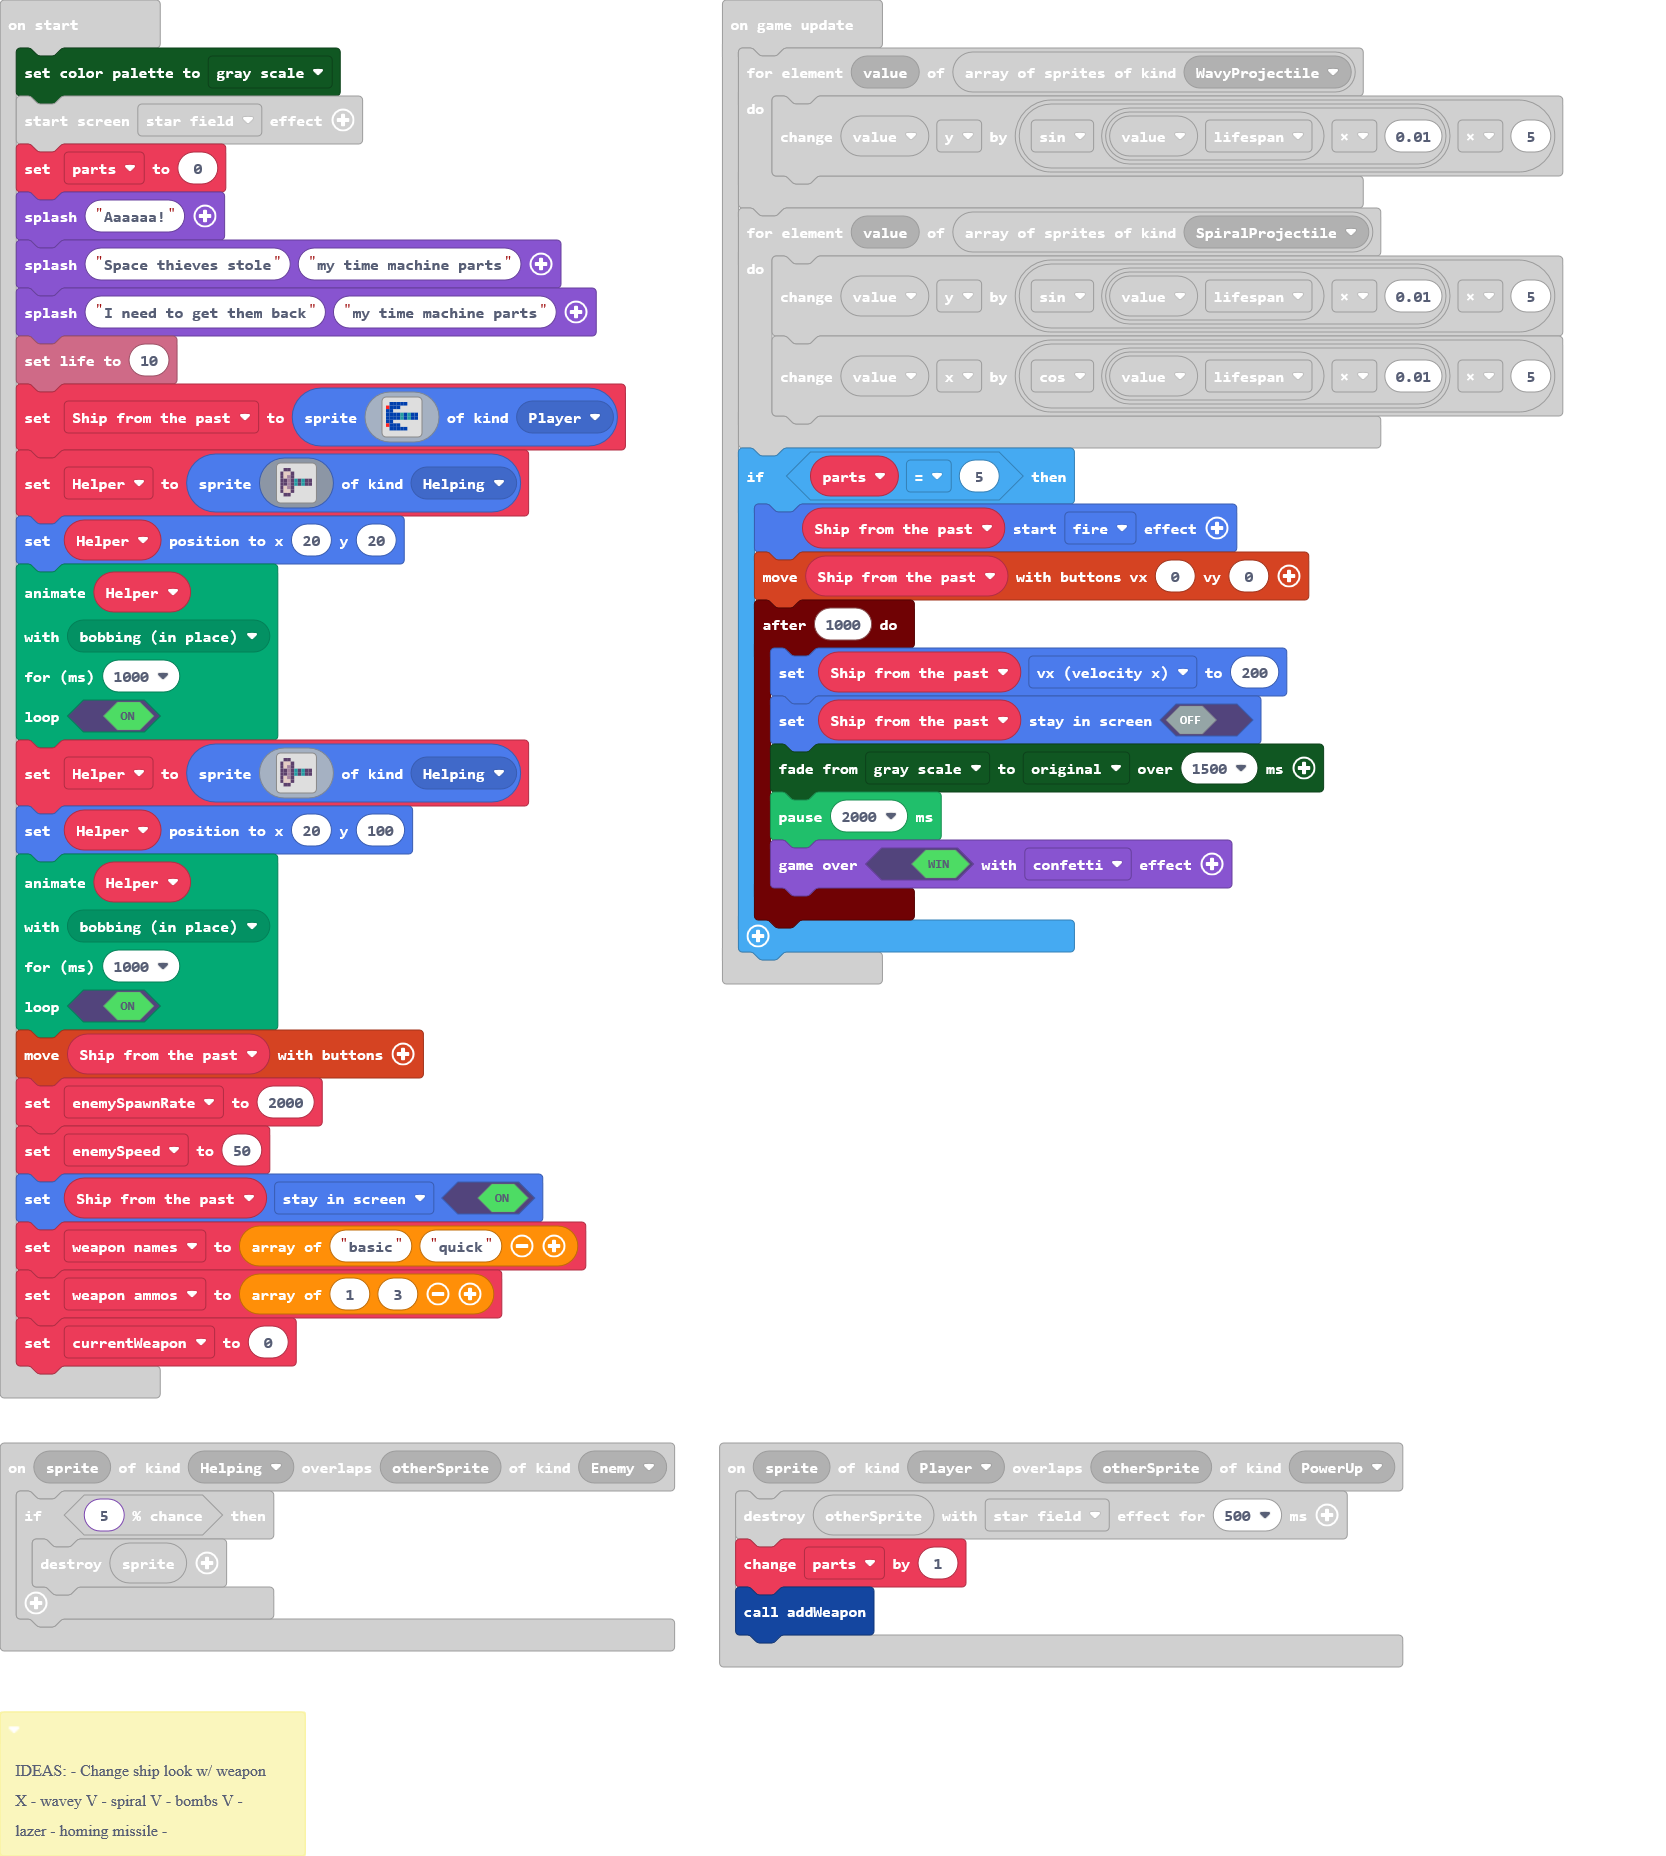
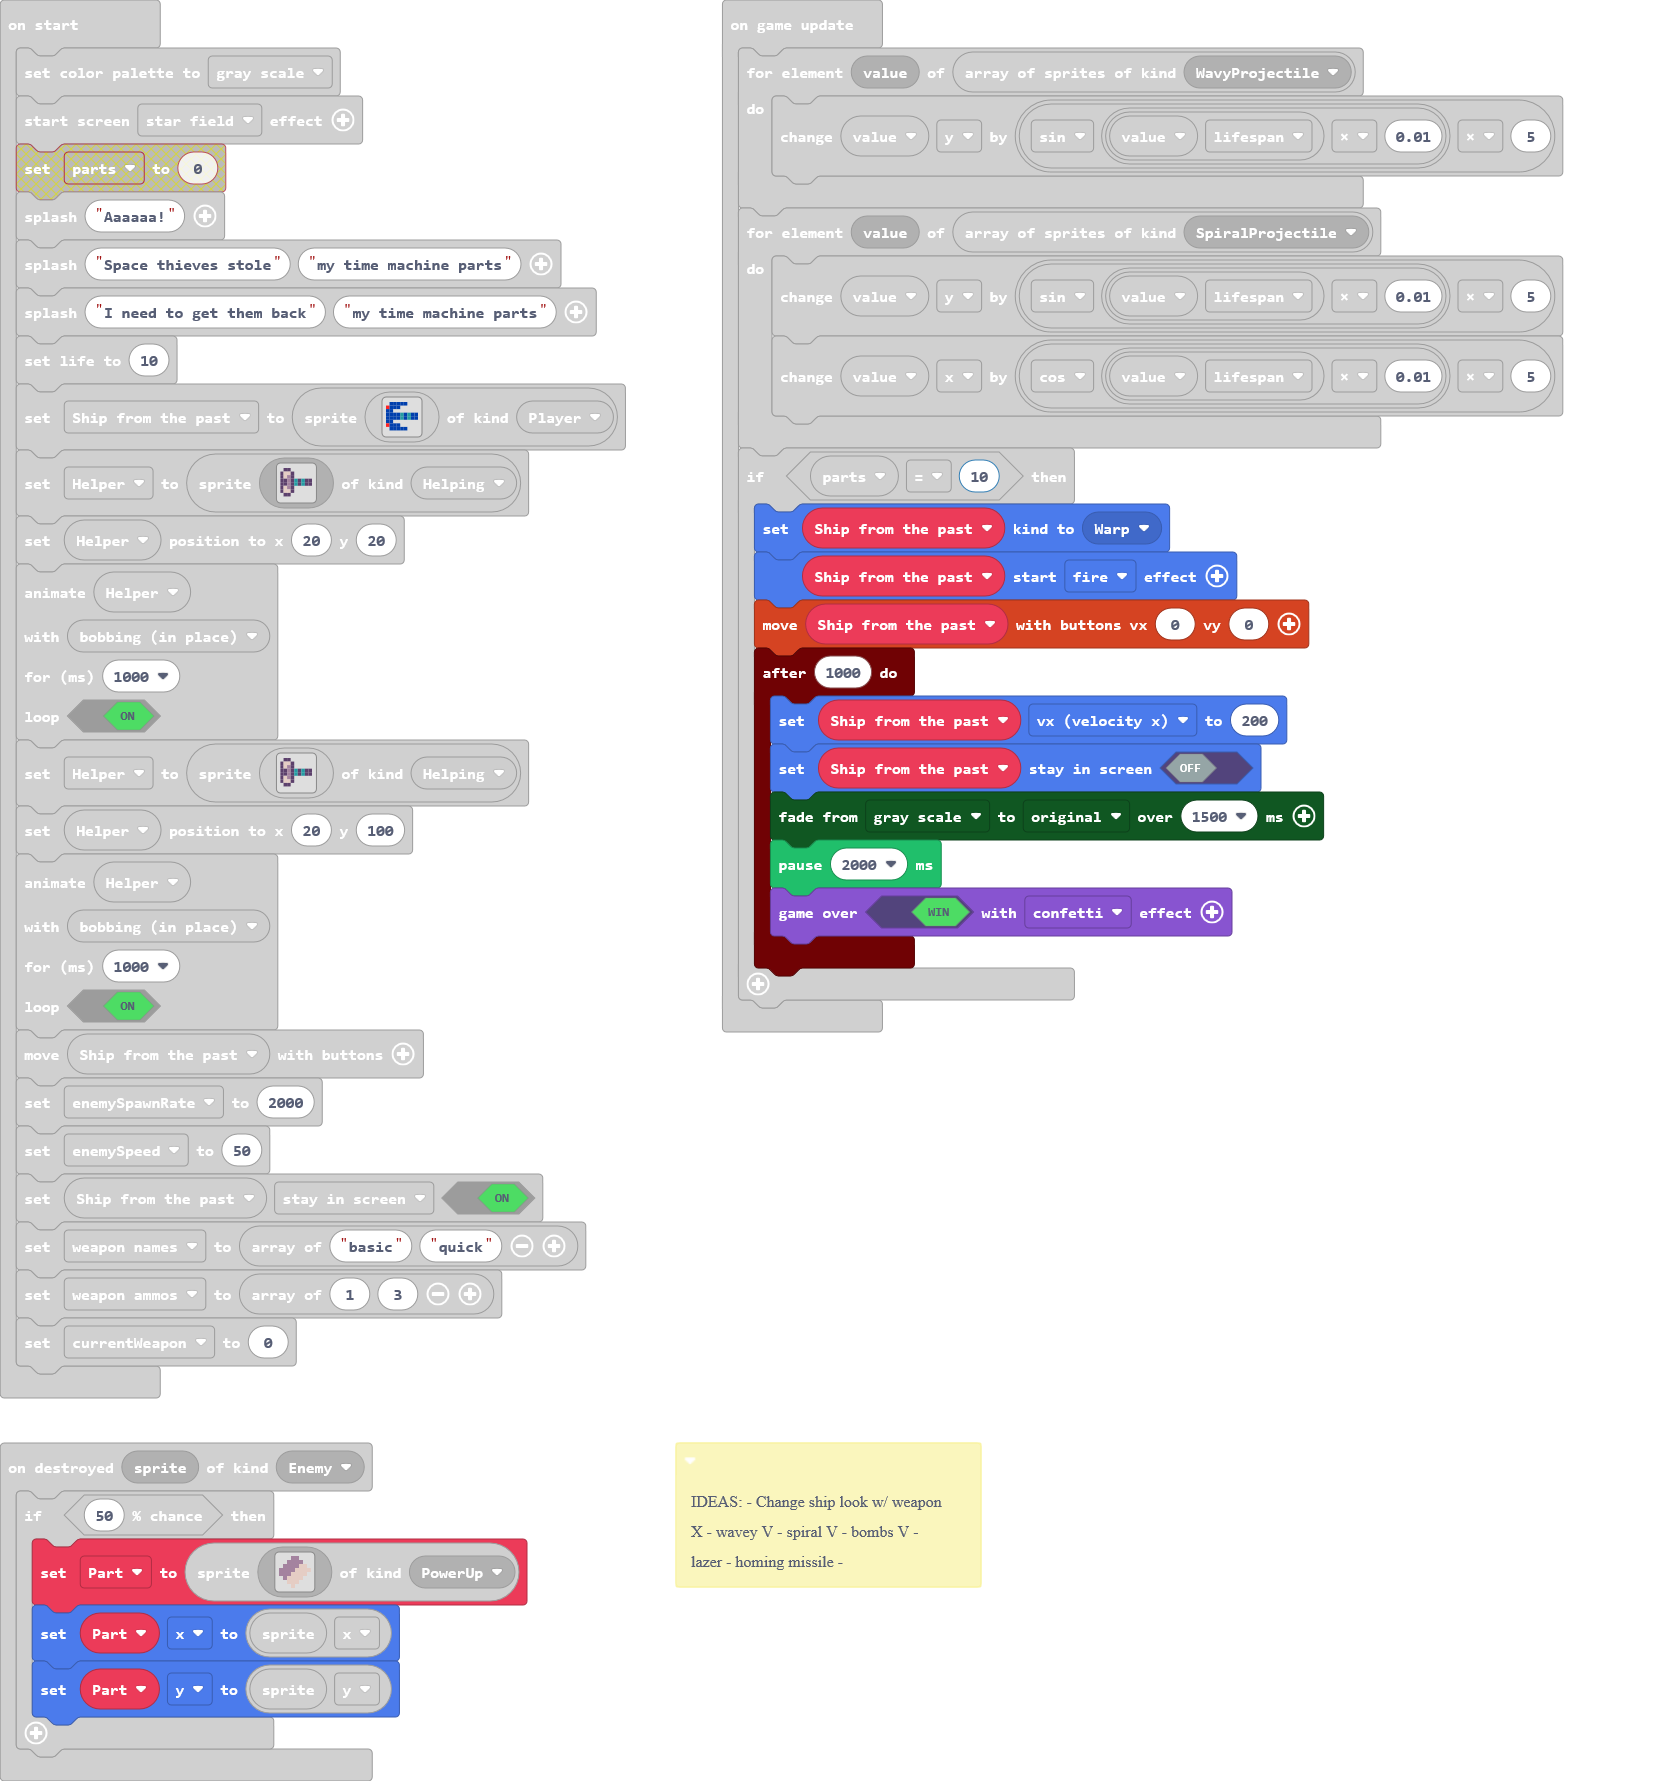
Changed number of parts to win to 10

diff --git a/main.ts b/main.ts
@@ -5,6 +5,7 @@ namespace SpriteKind {
     export const Bomb = SpriteKind.create()
     export const Exploding_Bomb = SpriteKind.create()
     export const Helping = SpriteKind.create()
+    export const Warp = SpriteKind.create()
 }
 controller.B.onEvent(ControllerButtonEvent.Pressed, function () {
     nextWeapon()
@@ -188,7 +189,7 @@ function nextWeapon () {
 }
 sprites.onDestroyed(SpriteKind.Enemy, function (sprite) {
     if (Math.percentChance(50)) {
-        Power = sprites.create(img`
+        Part = sprites.create(img`
             . . . b b . . . 
             . . b b b b . . 
             . b b b b d d . 
@@ -198,8 +199,8 @@ sprites.onDestroyed(SpriteKind.Enemy, function (sprite) {
             . . d d d . . . 
             . . . d . . . . 
             `, SpriteKind.PowerUp)
-        Power.x = sprite.x
-        Power.y = sprite.y
+        Part.x = sprite.x
+        Part.y = sprite.y
     }
 })
 function enemyHit (enemy: Sprite) {
@@ -219,10 +220,11 @@ sprites.onOverlap(SpriteKind.SpiralProjectile, SpriteKind.Enemy, function (sprit
     enemyHit(otherSprite)
 })
 let enemyShip: Sprite = null
-let Power: Sprite = null
+let Part: Sprite = null
 let rapid_speed = 0
 let projectile: Sprite = null
 let newWeapon = 0
+let parts = 0
 let ammo = 0
 let ammoConsumed = 0
 let currWeaponName = ""
@@ -234,7 +236,6 @@ color.setPalette(
 color.GrayScale
 )
 effects.starField.startScreenEffect()
-let parts = 0
 game.splash("Aaaaaa!")
 game.splash("Space thieves stole", "my time machine parts")
 game.splash("I need to get them back")
@@ -298,7 +299,8 @@ game.onUpdate(function () {
         value.y += Math.sin(value.lifespan * 0.01) * 5
         value.x += Math.cos(value.lifespan * 0.01) * 5
     }
-    if (parts == 5) {
+    if (parts == 10) {
+        Ship_from_the_past.setKind(SpriteKind.Warp)
         Ship_from_the_past.startEffect(effects.fire)
         controller.moveSprite(Ship_from_the_past, 0, 0)
         timer.after(1000, function () {
